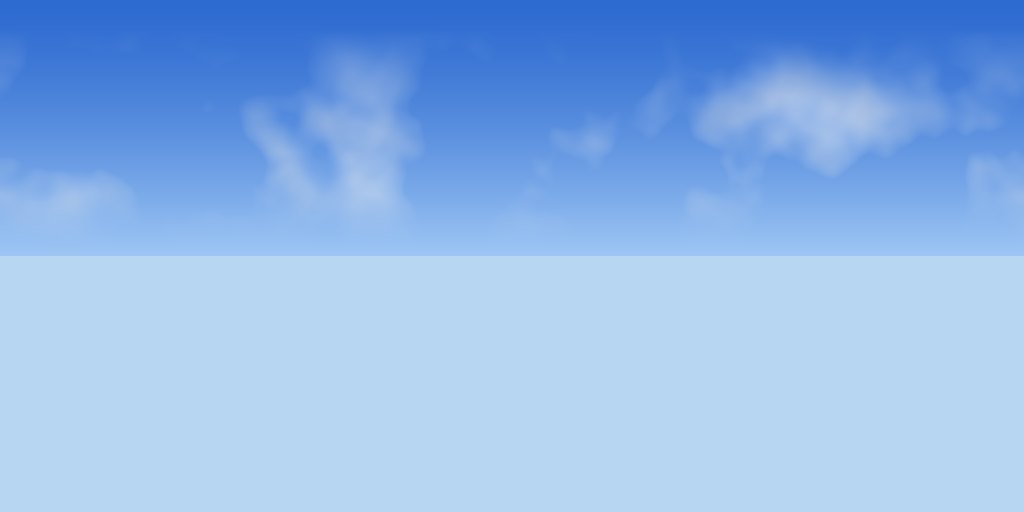
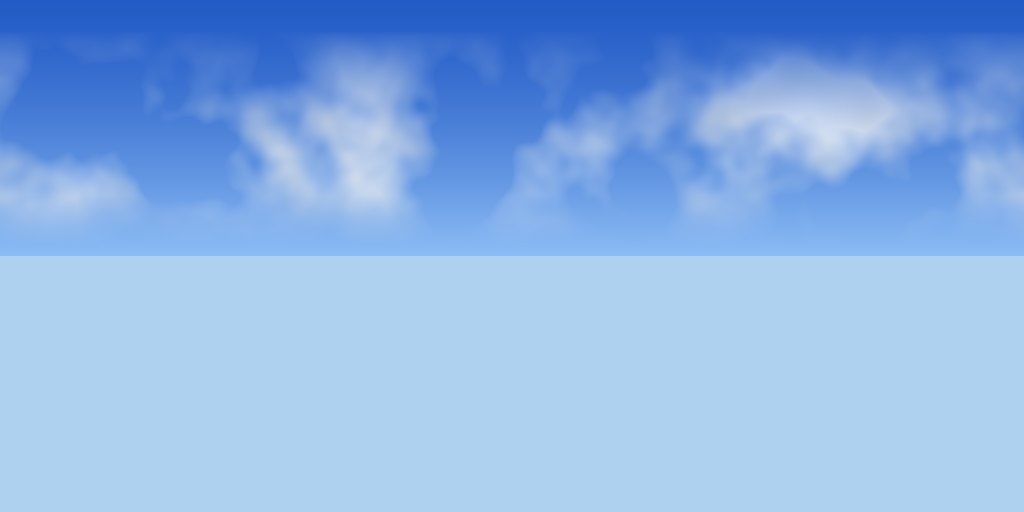
车门内侧两侧都盖住黄漆；扶梯侧板改用浅灰油漆材质；天空再加深一点
门内侧按 -sg 往车厢中心偏，并关掉背面剔除。扶梯侧板不用高金属度材质（站厅里会反射成发黑）。天空贴图再压深蓝、云更明显一点。

Changed region(s): [[0.5, 0.1562, 1.0, 0.3438], [0.2188, 0.1562, 0.4375, 0.4062], [0.0, 0.2812, 0.0312, 0.3438]]

diff --git a/js/world/train.js b/js/world/train.js
@@ -206,10 +206,11 @@ export class Train {
     ll.box(0, 0.615, 0, hw, 0.33, 0.056, WHITE, 0, 0, 0, 1, { ao: false });
     // 车门内侧：不锈钢浅灰整扇盖住外壳/色带（局部 z 偏内侧，避免和外壳穿模看到黄色）
     const li = new Geo(), IC = hex('#C8CED4'), ID = hex('#9AA3AB');
-    li.box(0, 1.0, -0.035, hw - 0.02, DOOR_H - 0.08, 0.04, IC, 0, 0, 0, 1, { ao: false });
-    li.box(0, 0.55, -0.04, hw - 0.08, 0.08, 0.05, ID, 0, 0, 0, 1, { ao: false }); // 防撞条
-    li.box(0, 1.05, -0.05, hw - 0.18, 0.05, 0.04, hex('#5A6168'), 0, 0, 0, 1, { ao: false }); // 拉手槽
-    this.innerMat = this.kit.M.metal.clone('trainDoorIn' + this.id); this.innerMat.metallic = 0.55; this.innerMat.roughness = 0.35; this.innerMat.albedoColor = B.Color3.FromHexString('#C8CED4').toLinearSpace();
+    li.box(0, 1.0, 0, hw - 0.02, DOOR_H - 0.08, 0.05, IC, 0, 0, 0, 1, { ao: false });
+    li.box(0, 0.55, 0, hw - 0.08, 0.08, 0.06, ID, 0, 0, 0, 1, { ao: false }); // 防撞条
+    li.box(0, 1.05, 0, hw - 0.18, 0.05, 0.06, hex('#5A6168'), 0, 0, 0, 1, { ao: false }); // 拉手槽
+    this.innerMat = this.kit.M.metal.clone('trainDoorIn' + this.id); this.innerMat.metallic = 0.55; this.innerMat.roughness = 0.35;
+    this.innerMat.albedoColor = B.Color3.FromHexString('#C8CED4').toLinearSpace(); this.innerMat.backFaceCulling = false;
     const mk = (g, name, mat) => { const m = g.toMesh(name, this.scene, mat, this.root); m.isVisible = false; return m; };
     this.leafSrc = [mk(lf, 'leafShell', this.shellMat), mk(lg, 'leafGlass', this.glassMat), mk(ll, 'leafLine', this.lineMat), mk(li, 'leafInner', this.innerMat)];
     this.leaves = { 1: [], '-1': [] }; this.doorCols = { 1: [], '-1': [] };
@@ -273,7 +274,11 @@ export class Train {
   setDoors(sg, f) {
     this.open[sg] = f;
     const e = f * f * (3 - 2 * f), out = Math.min(1, f * 4);
-    for (const l of this.leaves[sg]) { const px = l.dx + l.lr * (DOOR_W / 4 + e * (DOOR_W / 2 - 0.02)), pz = l.sg * (1.5 + out * 0.06); l.set.forEach((m, i) => m.position.set(px, 0, i === 3 ? pz - l.sg * 0.02 : pz)); }
+    for (const l of this.leaves[sg]) {
+      const px = l.dx + l.lr * (DOOR_W / 4 + e * (DOOR_W / 2 - 0.02)), pz = l.sg * (1.5 + out * 0.06);
+      // i=3 内侧面板：往车厢中心偏（-sg），两侧门都盖住外壳黄漆
+      l.set.forEach((m, i) => m.position.set(px, 0, i === 3 ? pz - l.sg * 0.09 : pz));
+    }
     const closed = f < 0.7; for (const c of this.doorCols[sg]) c.checkCollisions = closed;
   }
   setPos(x, y, z) { this.prev.copyFrom(this.root.position); this.root.position.set(x, y, z); this.pos.copyFrom(this.root.position); }

diff --git a/js/world/station.js b/js/world/station.js
@@ -445,16 +445,18 @@ export class Station {
   escalatorBody(x0, y0, x1, y1, z0, z1) {
     const k = this.kit, P = k.solid, ang = Math.atan2(y1 - y0, x1 - x0), len = Math.hypot(x1 - x0, y1 - y0), mx = (x0 + x1) / 2, my = (y0 + y1) / 2, zc = (z0 + z1) / 2, w = z1 - z0;
     const SKIRT = hex('#E6EAEE'), POST = hex('#D5DAE0');
-    k.metal.box(mx, my - 0.5, zc, len, 0.9, w + 0.3, hex('#E8ECF0'), 0, 0, ang, 1, { ao: false }); // 桁架外包（浅不锈钢）
+    // 侧板用非金属浅灰（金属度 1 的材质在站厅环境里反射暗，看起来发黑）
+    P.box(mx, my - 0.5, zc, len, 0.9, w + 0.3, hex('#DDE2E7'), 0, 0, ang, 1, { ao: false }); // 桁架外包（浅灰）
     for (const e of [-1, 1]) {
       const ze = e < 0 ? z0 - 0.08 : z1 + 0.08;
-      k.metal.box(mx, my + 0.18, ze, len, 0.55, 0.07, SKIRT, 0, 0, ang, 1, { ao: false }); // 裙板（加高、浅灰，取代原先偏黑的侧板观感）
+      P.box(mx, my + 0.18, ze, len, 0.55, 0.07, SKIRT, 0, 0, ang, 1, { ao: false }); // 裙板（浅灰）
+      k.metal.box(mx, my + 0.47, ze, len, 0.04, 0.08, STEEL, 0, 0, ang, 1, { ao: false }); // 不锈钢压条
       k.glass.box(mx, my + 0.72, ze, len, 0.78, 0.025, hex('#E2F2FA'), 0, 0, ang);
       const hr = (x, h) => [x, y0 + (y1 - y0) * (x - x0) / (x1 - x0) + h, ze];
       // 扶手：黑色橡胶；端柱改不锈钢浅灰
       const A = [x0 - 1.2, y0 + 1.08, ze], A1 = [x0 + 0.3, y0 + 1.08, ze], B1 = [x1 - 0.3, y1 + 1.08, ze], Bb = [x1 + 1.2, y1 + 1.08, ze];
       P.path([A, A1, hr(x0 + 0.9, 1.08), hr(x1 - 0.9, 1.08), B1, Bb], 0.09, hex('#1E2125'), 8);
-      for (const [px, py, dd] of [[x0 - 1.2, y0, -1], [x1 + 1.2, y1, 1]]) { k.metal.cyl(px, py + 0.62, ze, 0.12, 0.9, POST, 10, 0, 0, 0, undefined, { ao: false }); k.metal.rbox(px - dd * 0.6, py, ze, 1.4, 0.95, 0.12, SKIRT, 0.04, 0, { ao: false }); k.glass.box(px - dd * 0.6, py + 0.6, ze, 1.3, 0.8, 0.02, hex('#E2F2FA')); }
+      for (const [px, py, dd] of [[x0 - 1.2, y0, -1], [x1 + 1.2, y1, 1]]) { P.cyl(px, py + 0.62, ze, 0.12, 0.9, POST, 10, 0, 0, 0, undefined, { ao: false }); P.rbox(px - dd * 0.6, py, ze, 1.4, 0.95, 0.12, SKIRT, 0.04, 0, { ao: false }); k.glass.box(px - dd * 0.6, py + 0.6, ze, 1.3, 0.8, 0.02, hex('#E2F2FA')); }
     }
     // 上下梳齿板 + 黄色警示
     for (const [xx, yy, dd] of [[x0 - 0.9, y0, -1], [x1 + 0.9, y1, 1]]) {

diff --git a/js/core/render.js b/js/core/render.js
@@ -51,11 +51,14 @@ export class Render {
     sun.diffuse = B.Color3.Lerp(new B.Color3(1.0, 0.95, 0.86), new B.Color3(1.0, 0.99, 0.96), f);
     const d = B.Vector3.Lerp(new B.Vector3(-0.42, -1, 0.55), new B.Vector3(-0.08, -1, 0.06), f).normalize(); sun.direction.copyFrom(d);
     s.environmentIntensity = lerp(1.0, 0.9, f);
-    if (f > 0.5 && !this.envIn) {
-      this.envIn = B.CubeTexture.CreateFromPrefilteredData(this._envInUrl, s); this.envIn.name = 'envIn';
-    }
+    if (f > 0.5) this.preloadIndoor();
     const want = f > 0.5 && this.envIn ? this.envIn : this.env; if (s.environmentTexture !== want) s.environmentTexture = want;
     this.sky.setEnabled(f < 0.98);
+  }
+  /** 室内影棚环境贴图：首屏之后空闲时再加载（不占加载时间） */
+  preloadIndoor() {
+    if (this.envIn) return;
+    this.envIn = B.CubeTexture.CreateFromPrefilteredData(this._envInUrl, this.scene); this.envIn.name = 'envIn';
   }
   update(dt, indoor, focus) {
     this.indoorTarget = indoor;

diff --git a/js/main.js b/js/main.js
@@ -178,6 +178,7 @@ export async function start() {
     setTimeout(r, 2500);
   });
   const loading = document.getElementById('loading'); loading.classList.add('done'); setTimeout(() => loading.remove(), 700);
+  setTimeout(() => R.preloadIndoor(), 1500);
 
   // —— 测试接口
   let inst = null; try { inst = new B.SceneInstrumentation(scene); inst.captureFrameTime = true; } catch (_) {}

diff --git a/tools/textures/make_textures.py b/tools/textures/make_textures.py
@@ -187,7 +187,7 @@ def sky():
     W, H = 1024, 512
     y = np.linspace(0, 1, H)[:, None] * np.ones((1, W))
     # 天顶更深蓝，地平线仍偏浅，避免和楼房糊在一起
-    zen = np.array([0.18, 0.42, 0.82]); hor = np.array([0.62, 0.78, 0.96]); gnd = np.array([0.72, 0.84, 0.95])
+    zen = np.array([0.14, 0.36, 0.78]); hor = np.array([0.55, 0.74, 0.96]); gnd = np.array([0.68, 0.82, 0.94])
     t = np.clip(y / 0.5, 0, 1)
     col = zen[None, None] * (1 - t[..., None] ** 1.35) + hor[None, None] * (t[..., None] ** 1.35)
     col = np.where((y > 0.5)[..., None], gnd[None, None] * np.ones_like(col), col)
@@ -195,13 +195,13 @@ def sky():
     nn = noise(1024, 7, seed=11)[:512, :]
     n2 = noise(1024, 18, seed=12)[:512, :]
     n3 = noise(1024, 40, seed=13)[:512, :]
-    c = np.clip((nn * 0.7 + n2 * 0.35 + n3 * 0.12 - 0.52) * 2.2, 0, 1)
+    c = np.clip((nn * 0.75 + n2 * 0.4 + n3 * 0.15 - 0.48) * 2.6, 0, 1)
     band = np.clip(1 - np.abs(y - 0.30) / 0.24, 0, 1) ** 0.85 * np.clip((0.48 - y) * 10, 0, 1)
     c = (c * band) ** 0.9
     # 柔和白，略带一点暖边
     white = np.array([0.98, 0.99, 1.0])
     shade = 0.88 + 0.12 * np.clip(1 - n2, 0, 1)
-    col = col * (1 - c[..., None] * 0.92) + (white * shade[..., None]) * c[..., None] * 0.92
+    col = col * (1 - c[..., None] * 0.95) + (white * shade[..., None]) * c[..., None] * 0.95
     a = np.clip(col * 255, 0, 255).astype(np.uint8)
     Image.fromarray(a).save(os.path.join(OUT, 'sky.jpg'), quality=86, optimize=True, progressive=True)
 # ---------- 圆形柔和阴影（贴地）----------
